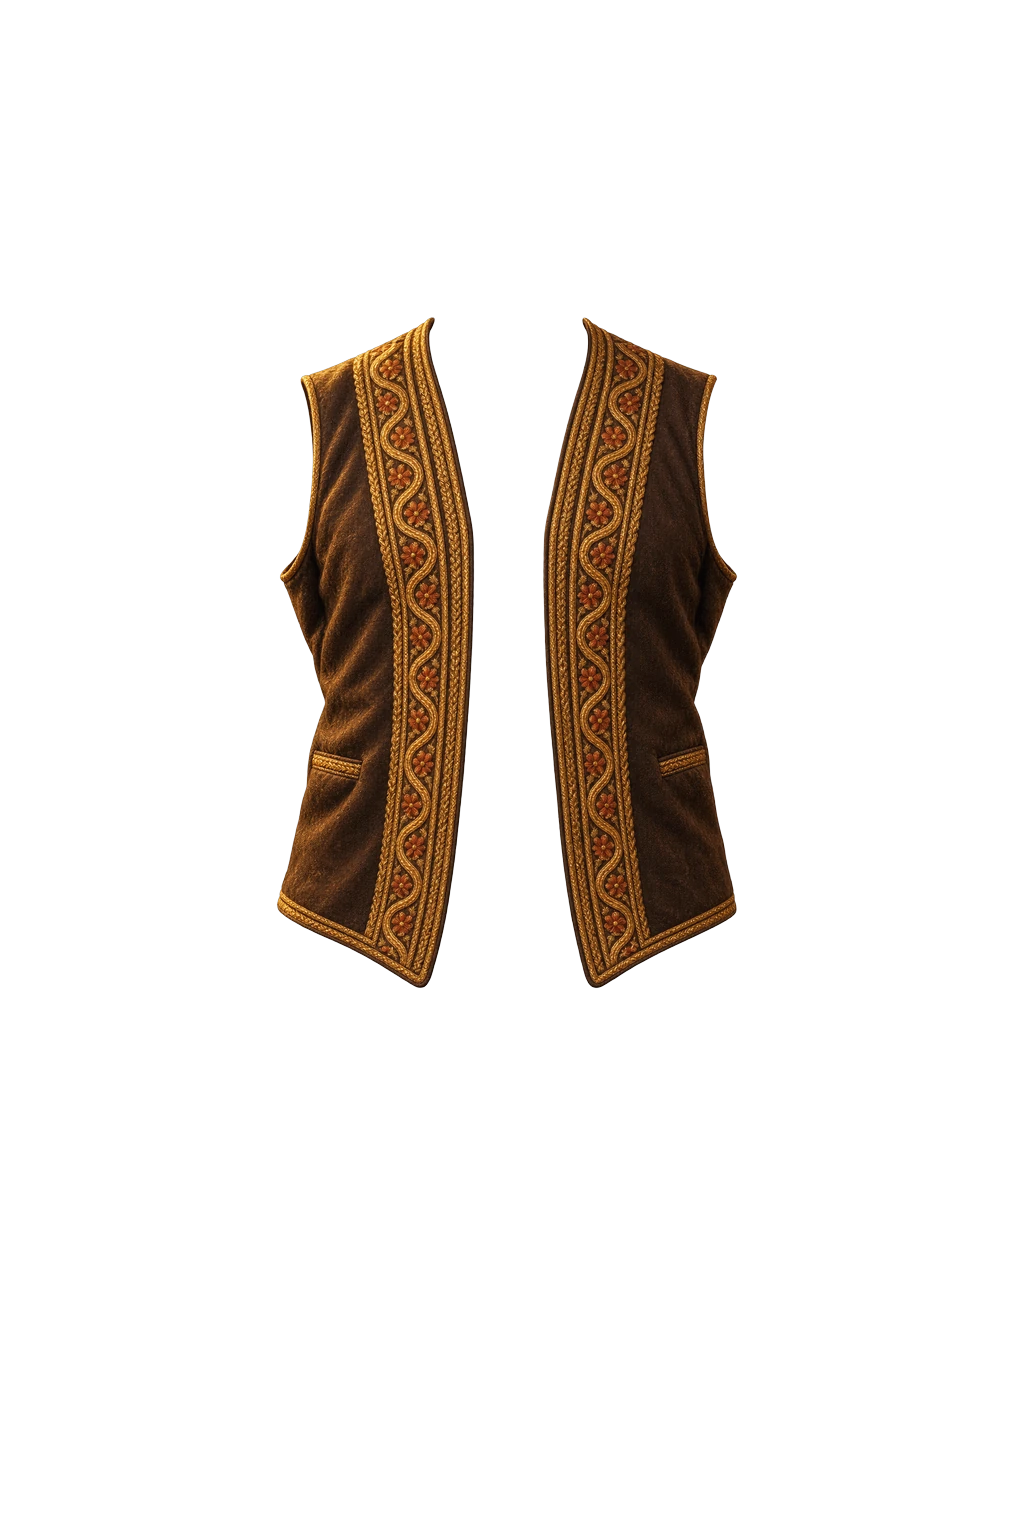
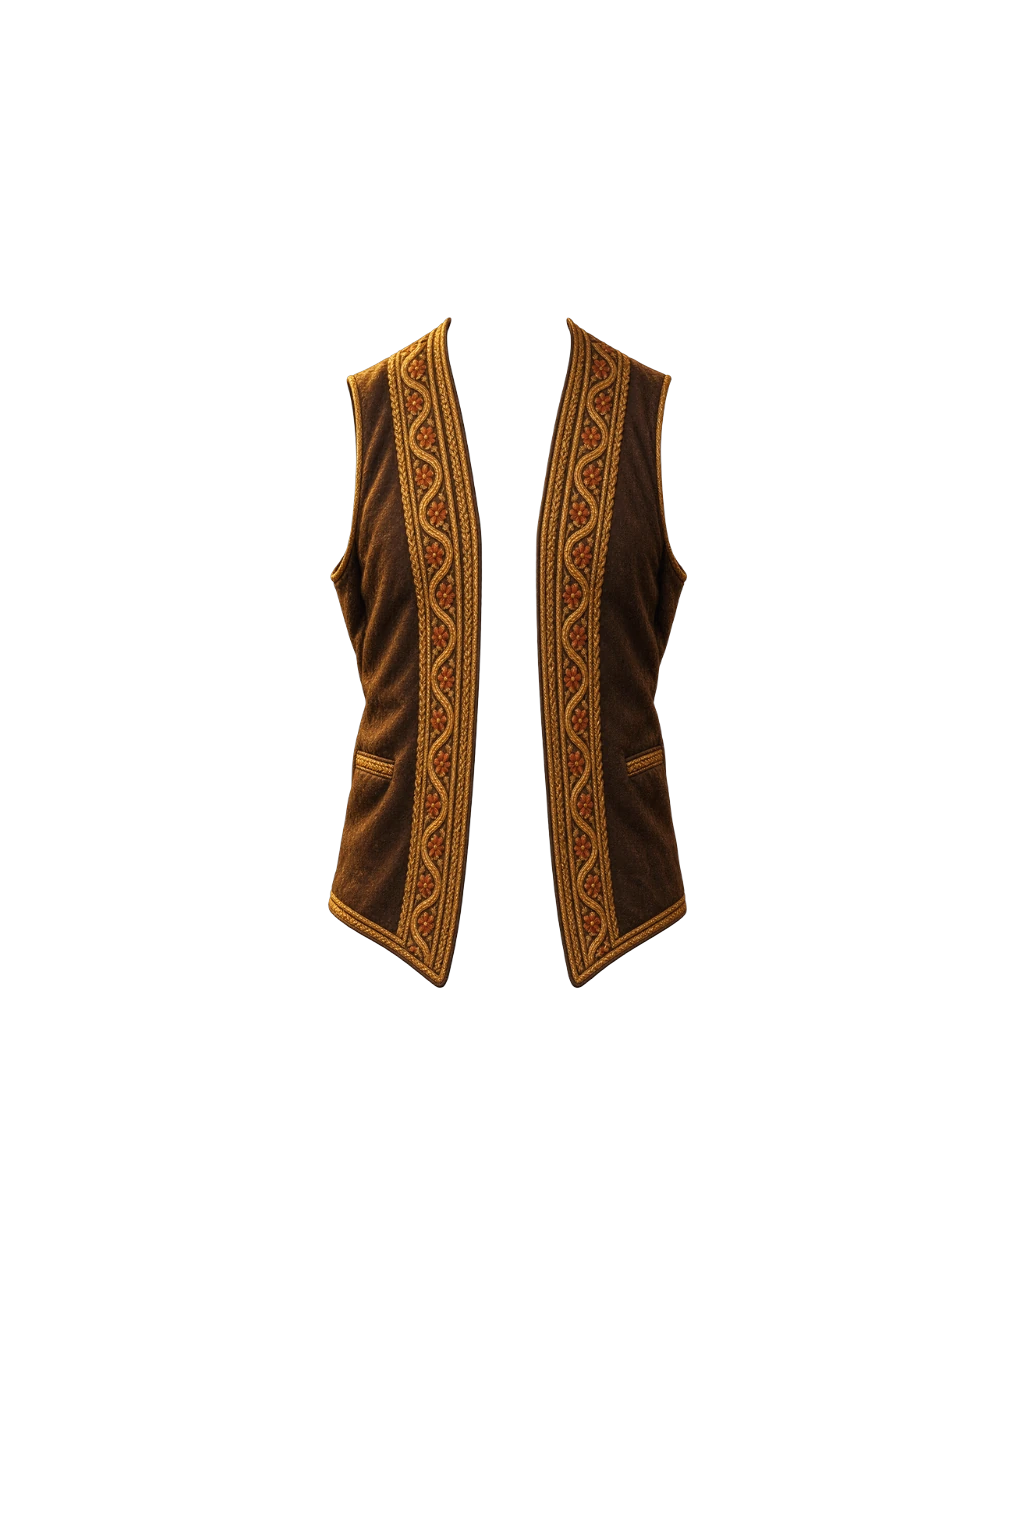
Wardrobe: vest on the chest, ankle-length robes down to the ankle
- The embroidered vest was drawn as wide as a coat, so it sat over his arms.
  It is fitted to his chest now (78% of the width); the arms hang outside it.
- The galabiyas and the kaftan are ankle-length but were painted to the knee.
  Their hems are let down to just above the ankle.

Claude-Session: https://claude.ai/code/session_01RsyrrUsDDaKTV5xQN8SsoM

Changed region(s): [[0.5, 0.1875, 0.7188, 0.6562], [0.25, 0.1875, 0.4688, 0.6562]]

diff --git a/tools/refit.py b/tools/refit.py
@@ -25,6 +25,8 @@ RAW = Path(os.environ.get('RAW', DIR / '_raw'))
 TOPS = ['linen-shirt', 'galabiya-work', 'galabiya-white', 'galabiya-wool', 'dress-shirt', 'kaftan',
         'vest-embroidered', 'stambouli', 'linen-suit', 'bisht', 'frock-coat', 'burnous']
 LEGS = ['sirwal', 'linen-trousers', 'wool-trousers', 'morning-trousers']
+SLEEVELESS = {'vest-embroidered'}
+ANKLE_LENGTH = {'galabiya-white', 'galabiya-work', 'galabiya-wool', 'kaftan'}
 FEET = ['babouche', 'markub-red', 'oxfords', 'spectator', 'boots']
 Q = 4  # search at a quarter of full size
 
@@ -130,11 +132,22 @@ def fit_body(pid, legs):
         shins = np.zeros_like(b); shins[bottom:(ANKLE - 12) // Q, low.min(): low.max() + 1] = True
         must = must | (b & shins)
         best = search(px, py, ax, ay, np.arange(0.80, 1.07, 0.02), np.arange(0.96, 1.20, 0.02), np.arange(-4, 5, 2), [0], must, 0.97)
+    elif pid in SLEEVELESS:
+        # a vest covers his chest and back only: his arms hang outside it
+        sh = B[int(H * 0.26)]
+        xs0 = np.nonzero(sh)[0]
+        chest = np.zeros_like(b); chest[int(top): int(py.max()), (xs0.min() + 14) // Q: (xs0.max() - 14) // Q] = True
+        must = b & p & chest
+        best = search(px, py, ax, ay, np.arange(0.70, 1.02, 0.02), [1.0], np.arange(-4, 5, 2), [0], must, 0.97)
     else:
         best = search(px, py, ax, ay, np.arange(0.80, 1.05, 0.02), [1.0], np.arange(-4, 5, 2), [0], must, 0.985)
     if not best:
         print(f'{pid}: no fit keeps it covering him; left as is'); return
     _, sx, sy, dx, dy = best
+    if pid in ANKLE_LENGTH:
+        # an ankle-length robe painted short: let the hem down to just above the ankle
+        full = np.nonzero(np.array(img)[..., 3] > 40)[0]
+        sy = max(sy, (ANKLE - 30 - full.min()) / (full.max() - full.min()))
     mv = (CX, ay * Q, sx, sy, dx * Q, dy * Q)
     save(pid, warp(img, *mv), [mv])
     print(f'{pid}: width x{sx:.2f}, length x{sy:.2f}, shift {dx * Q:+.0f}px')
